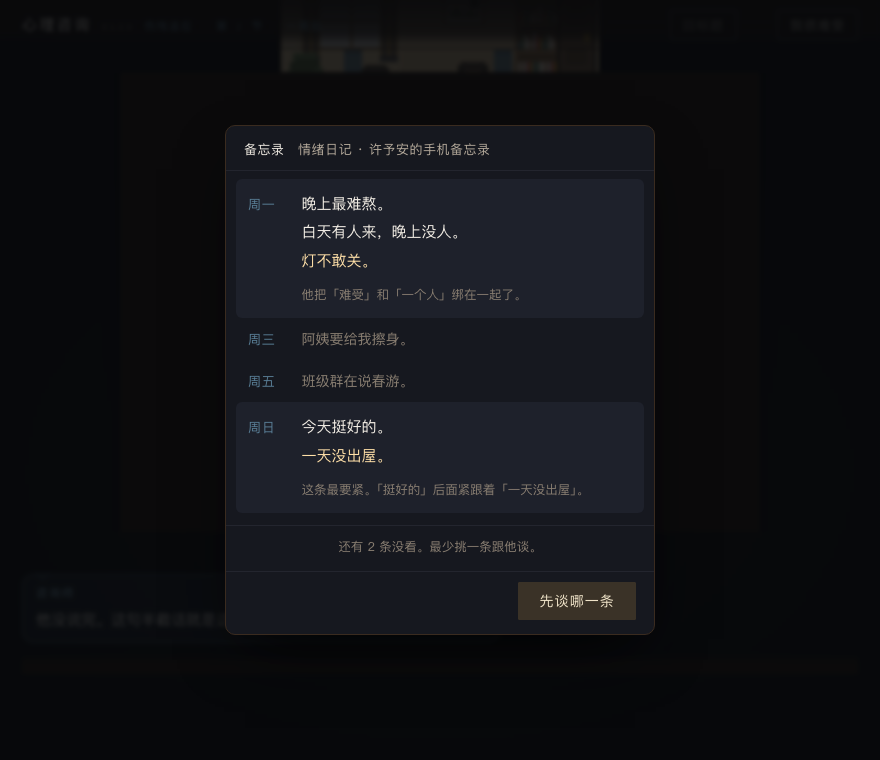
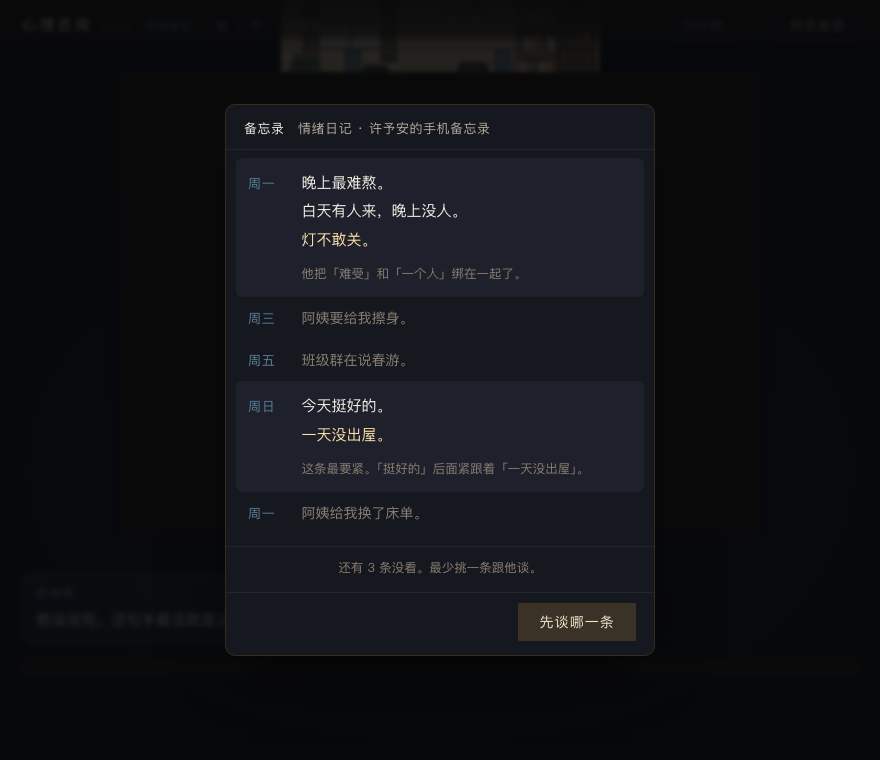
feat(v2-D8): 督导笔记补覆盖，情绪日记加到 5 条
- 「她照顾你多久了」这一支原本没有旁注，补上（有刻度的关系，才谈得上生气）
- 日记补第 5 条（换了床单，我没说谢谢）：他记的全是事实，一句感受都没有
- 笔记总数 56 条（s1 18 / s2 22 / s3 16）——比规格里的 18 条多，
  密度与 v1 持平（v1 是 74 条 / 3 条线），节末汇总页可滚动

验收：node tests/run-all.mjs 六步全绿

diff --git a/心理咨询.html b/心理咨询.html
@@ -2281,7 +2281,12 @@ const XU_S2 = {
     ],
   },
   'g1': { type: 'say', who: '许予安', text: '好几年了。', next: 'g2' },
-  'g2': { type: 'say', who: '许予安', text: '我小时候她就在。', next: 'g4' },
+  'g2': { type: 'say', who: '许予安', text: '我小时候她就在。', next: 'g2b' },
+  'g2b': {
+    type: 'say', note: { kind: 'supervision' },
+    text: '他答得出「我小时候」，说明这段关系在他心里有刻度。有刻度的关系，才谈得上生气。',
+    next: 'g4',
+  },
   'g3': { type: 'say', who: '许予安', text: '……烦。', next: 'g3b' },
   'g3b': { type: 'say', who: '许予安', text: '不是那种烦。', next: 'g4' },
   'g5': { type: 'say', who: '许予安', text: '（很久）……她昨天给我擦身的时候，我让她出去。', next: 'g6' },
@@ -2389,6 +2394,11 @@ const XU_S2 = {
         id: 'sun', day: '周日',
         lines: ['今天挺好的。', '一天没出屋。'],
         note: '这条最要紧。「挺好的」后面紧跟着「一天没出屋」。',
+      },
+      {
+        id: 'mon2', day: '周一',
+        lines: ['阿姨给我换了床单。', '我没说谢谢。'],
+        note: '他记的全是事实，一句感受都没有。这不是冷，是他还在学着怎么把感受写下来。',
       },
     ],
     next: 'c5',

diff --git a/src/story.js b/src/story.js
@@ -426,7 +426,12 @@ const XU_S2 = {
     ],
   },
   'g1': { type: 'say', who: '许予安', text: '好几年了。', next: 'g2' },
-  'g2': { type: 'say', who: '许予安', text: '我小时候她就在。', next: 'g4' },
+  'g2': { type: 'say', who: '许予安', text: '我小时候她就在。', next: 'g2b' },
+  'g2b': {
+    type: 'say', note: { kind: 'supervision' },
+    text: '他答得出「我小时候」，说明这段关系在他心里有刻度。有刻度的关系，才谈得上生气。',
+    next: 'g4',
+  },
   'g3': { type: 'say', who: '许予安', text: '……烦。', next: 'g3b' },
   'g3b': { type: 'say', who: '许予安', text: '不是那种烦。', next: 'g4' },
   'g5': { type: 'say', who: '许予安', text: '（很久）……她昨天给我擦身的时候，我让她出去。', next: 'g6' },
@@ -534,6 +539,11 @@ const XU_S2 = {
         id: 'sun', day: '周日',
         lines: ['今天挺好的。', '一天没出屋。'],
         note: '这条最要紧。「挺好的」后面紧跟着「一天没出屋」。',
+      },
+      {
+        id: 'mon2', day: '周一',
+        lines: ['阿姨给我换了床单。', '我没说谢谢。'],
+        note: '他记的全是事实，一句感受都没有。这不是冷，是他还在学着怎么把感受写下来。',
       },
     ],
     next: 'c5',
